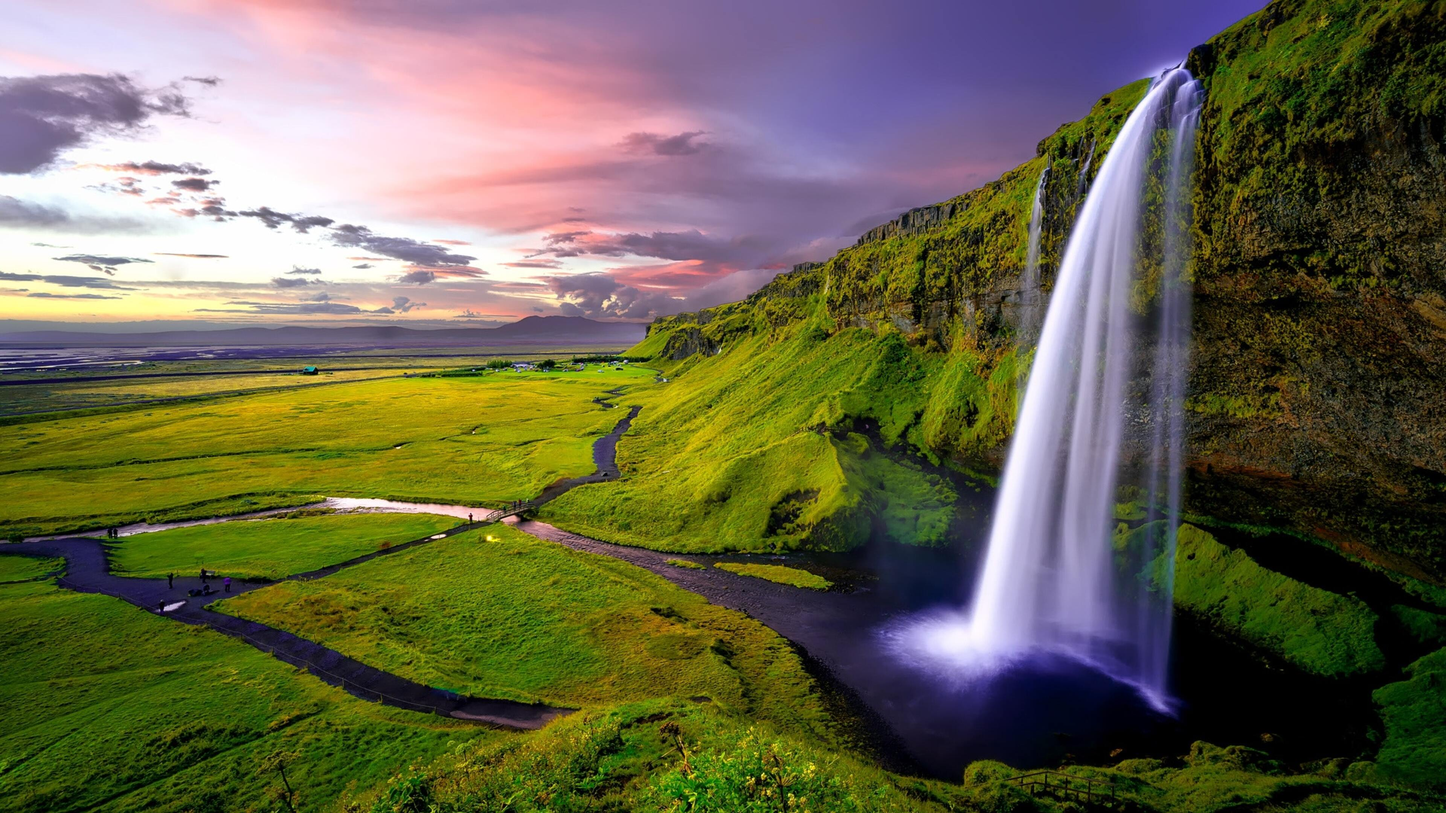
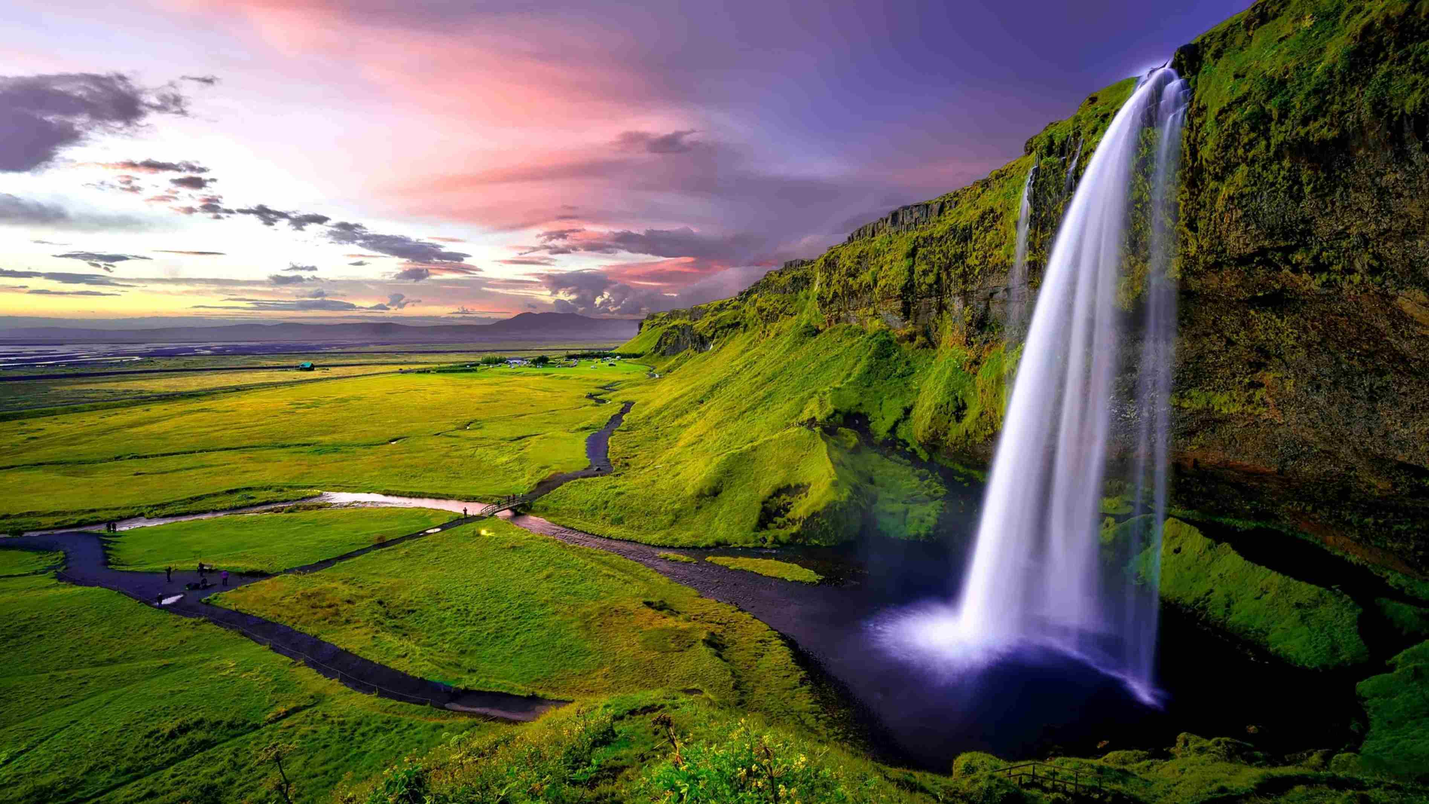
Compressed image file size

Changed region(s): [[0.4666, 0.9278, 0.4978, 1.0], [0.5289, 0.9278, 0.56, 0.9588]]

diff --git a/README.md b/README.md
@@ -1,2 +1,2 @@
 # sfeichtenschlager.github.io
-### this website can be reached by entering this URL
+### This website can be reached by entering this URL.
